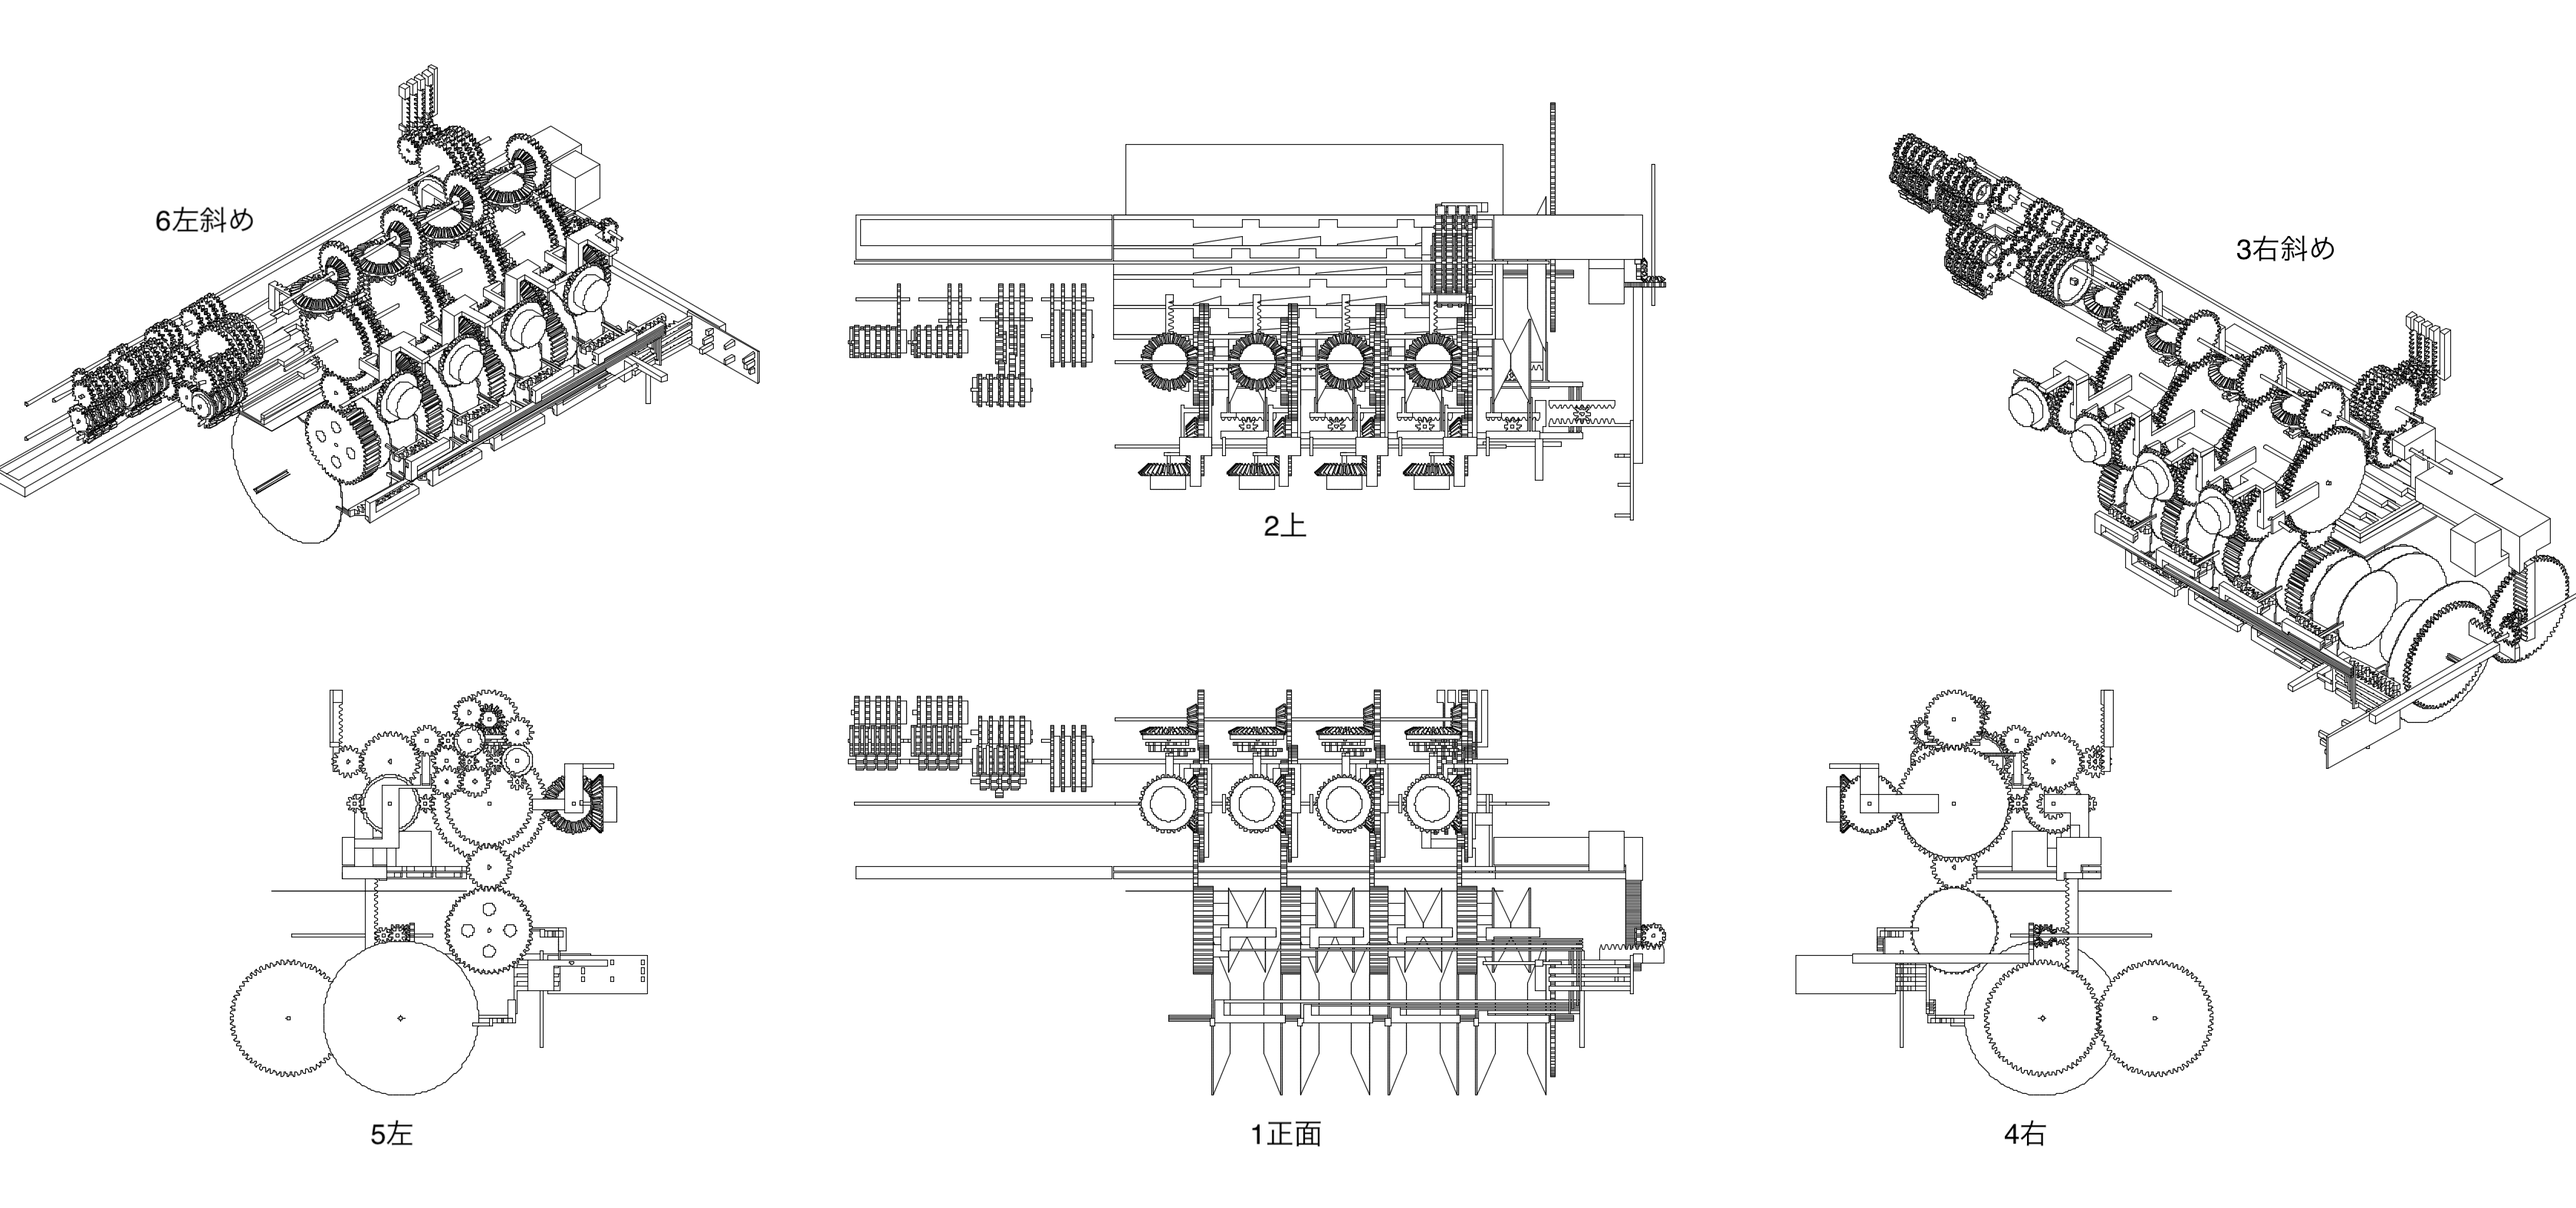
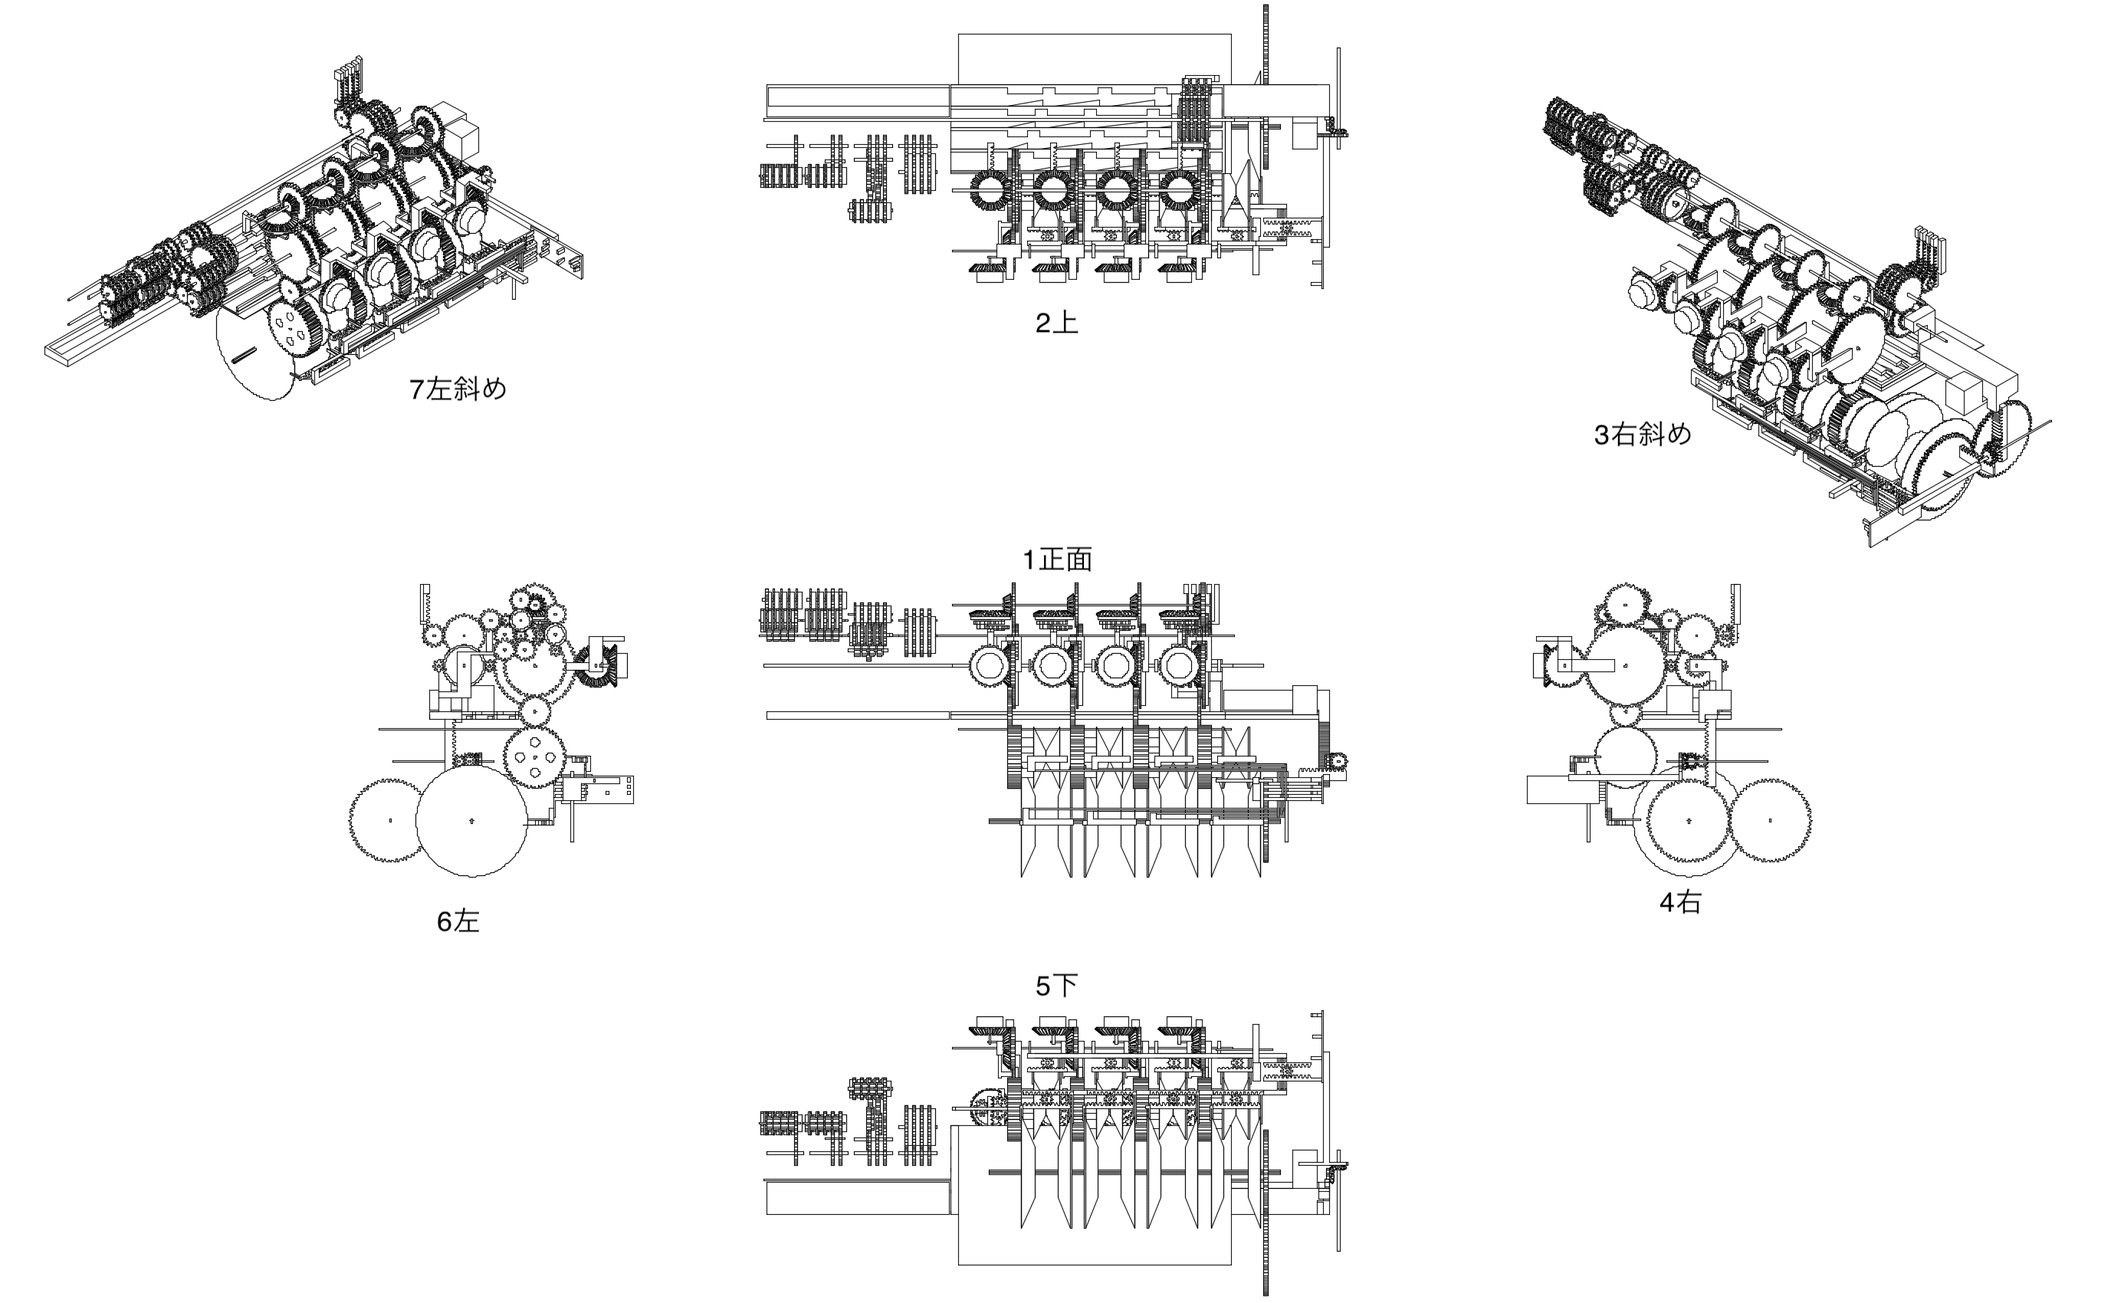
update pictur

diff --git a/components.md b/components.md
@@ -9,28 +9,18 @@
 
 <img src="resources/image/0index.png" alt="0全体">
 <br>
-
-1
-<img src="resources/image/1front.png" alt="1正面">
+[1面正](resources/image/1front.png)
 <br>
-
-2
-<img src="resources/image/2top.png" alt="2上">
+[2上](resources/image/2top.png)
 <br>
-
-3
-<img src="resources/image/3rightOblique.png" alt="3右斜め">
+[3右斜め](resources/image/3rightOblique.png)
 <br>
-
-4
-<img src="resources/image/4right.png" alt="4右">
+[4右](resources/image/4right.png)
 <br>
-
-5
-<img src="resources/image/5left.png" alt="5左">
+[5下](resources/image/5bottom.png)
 <br>
-
-6
-<img src="resources/image/6leftOblique.png" alt="6左斜め">
-
+[6左](resources/image/6left.png)
+<br>
+[7左斜め](resources/image/7leftOblique.png)
+<br>
 
